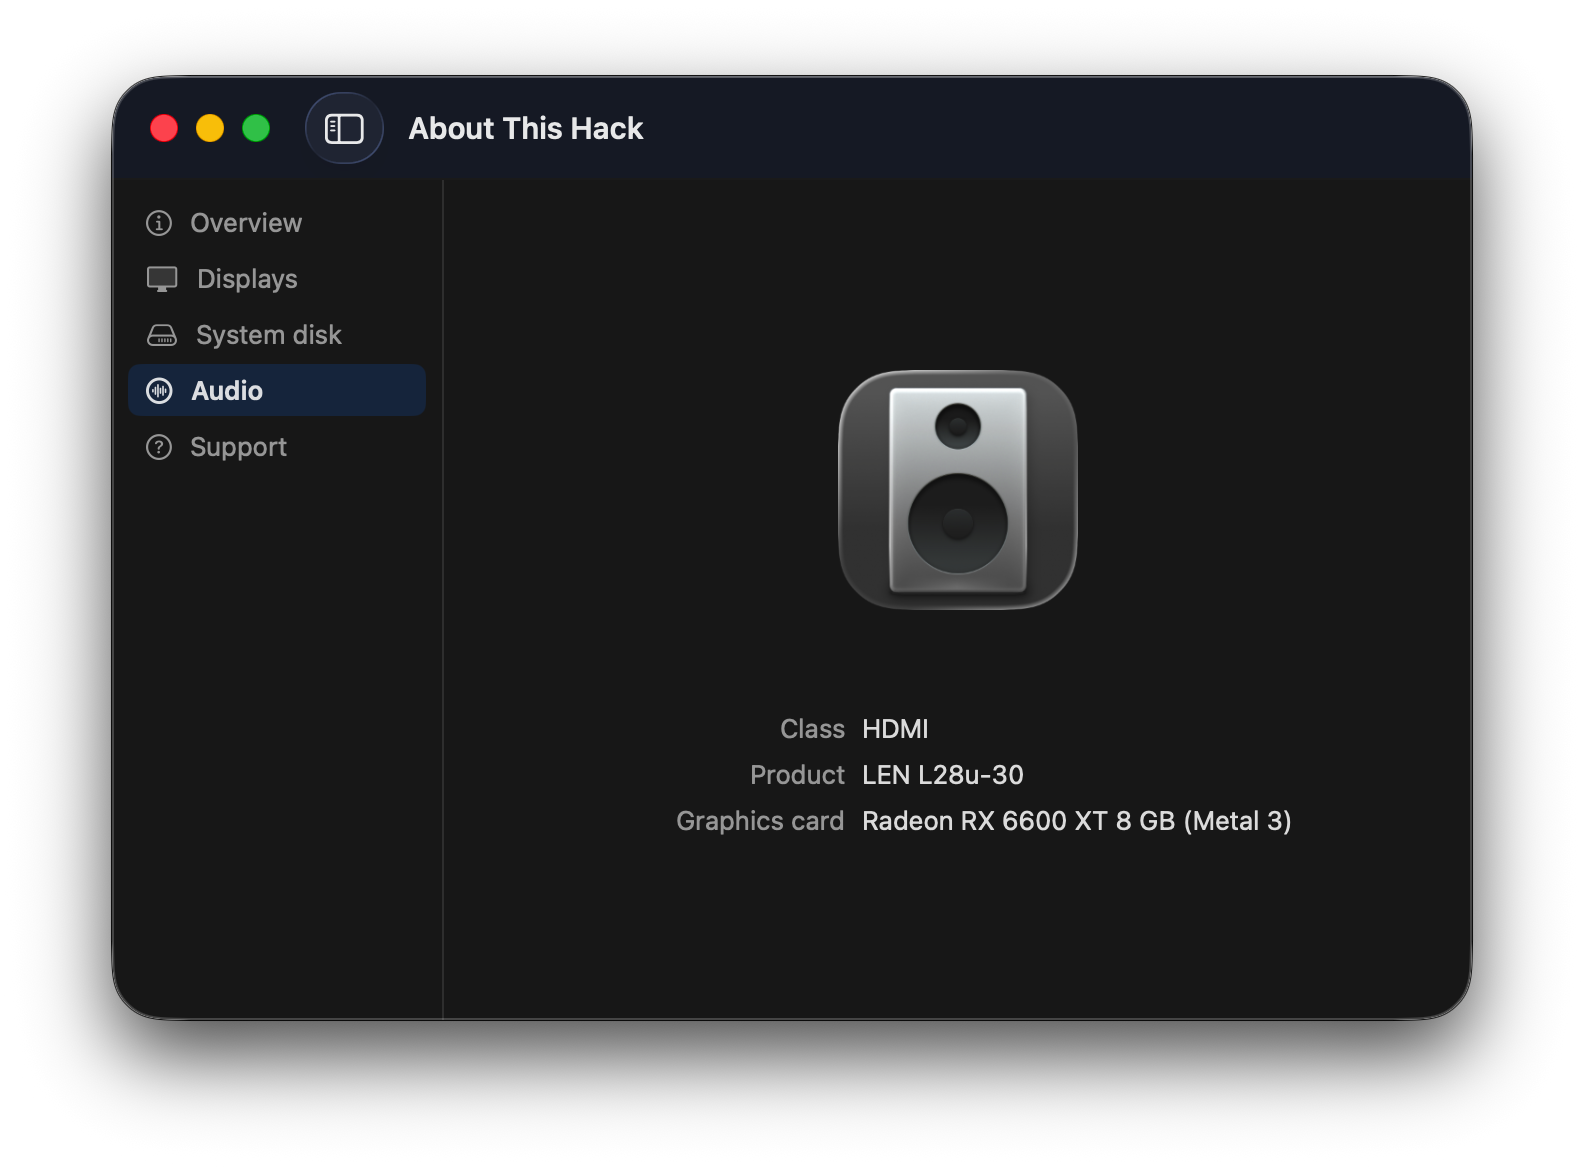
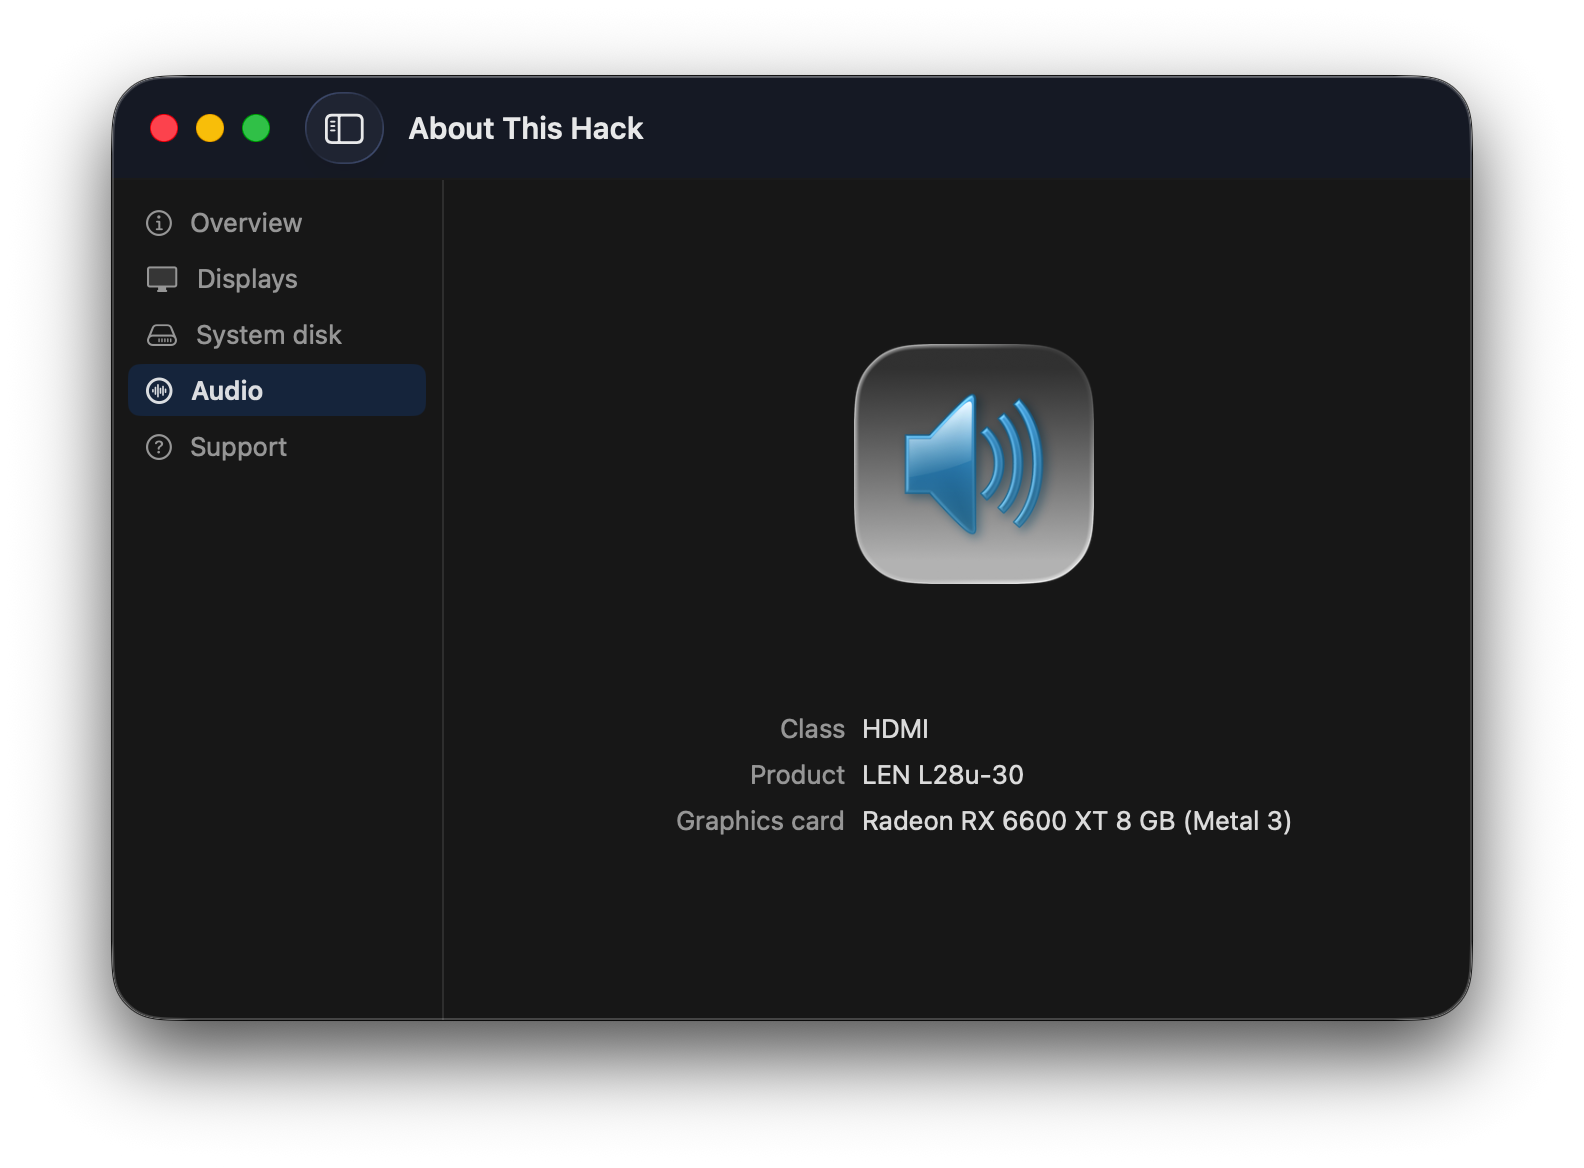
Add HDAUniversal audio docs and artwork

Changed region(s): [[0.5259, 0.2774, 0.7115, 0.524]]

diff --git a/CLAUDE.md b/CLAUDE.md
@@ -167,8 +167,8 @@ Data is collected into `/private/tmp/.ath/` at launch and deleted on termination
 
 The Audio tab is only shown on Hackintoshes or Macs with OCLP / OpenCore:
 
-1. `AppState.isHackintosh` → true when bootloader is Clover; true when bootloader is OpenCore without OCLP; true when bootloader is OpenCore with OCLP **and** `HCAudio` reports an expected driver (`AppleALC`, `VoodooHDA`, `USB`, `HDMI`, or `DisplayPort`). Returns false on Apple iBoot (Apple Silicon) or Apple UEFI (real Intel Mac without OpenCore).
-2. `AppState.shouldShowAudioTab` → true when `isHackintosh` AND `HCAudio` reports driver = `AppleALC`, `VoodooHDA`, `USB`, `HDMI`, or `DisplayPort`.
+1. `AppState.isHackintosh` → true when bootloader is Clover; true when bootloader is OpenCore without OCLP; true when bootloader is OpenCore with OCLP **and** `HCAudio` reports an expected driver (`AppleALC`, `VoodooHDA`, `HDAUniversal`, `USB`, `HDMI`, or `DisplayPort`). Returns false on Apple iBoot (Apple Silicon) or Apple UEFI (real Intel Mac without OpenCore).
+2. `AppState.shouldShowAudioTab` → true when `isHackintosh` AND `HCAudio` reports driver = `AppleALC`, `VoodooHDA`, `HDAUniversal`, `USB`, `HDMI`, or `DisplayPort`.
 3. The `Audio` menu item in AppDelegate is also validated against `shouldShowAudioTab`.
 
 ## Localization

diff --git a/README.md b/README.md
@@ -81,6 +81,7 @@ The Audio tab is displayed in these situations:
 | --- | --- |
 | ![Overview](Images/Audio-applealc.png) | ![Overview](Images/Audio-usb.png) |
 | ![Overview](Images/Audio-hdmi.png) | ![Overview](Images/Audio-voodoohda.png) |
+| ![Overview](Images/Audio-hdauniversal.png) | ![Overview](Images/Audio-dp.png) |
 
 **Note**: `getdump` is a tool available in the VoodooHDA repository. The download link is usually found in the resources section of each VoodooHDA release. The latest version is available at this [link](https://github.com/CloverHackyColor/VoodooHDA/releases/download/Release312/getdump.zip). VoodooHDA users must have `getdump` installed to get the audio tab. Simply copy the tool to `/usr/local/bin` and that's all.
 

diff --git a/Releases-changelog.md b/Releases-changelog.md
@@ -1,5 +1,11 @@
 # Releases Changelog
 
+## 4.3.8 (1638) - Jun 30, 2026
+
+**Add HDAUniversal audio**
+
+- Add HDAUniversal audio: detection of `HDAUniversal.kext` (new audio system for Hackintoshes, made by *Mald0n*)
+
 ## 4.3.7 (1637) - Jun 28, 2026
 
 **Per-macOS-version artwork for displays**
